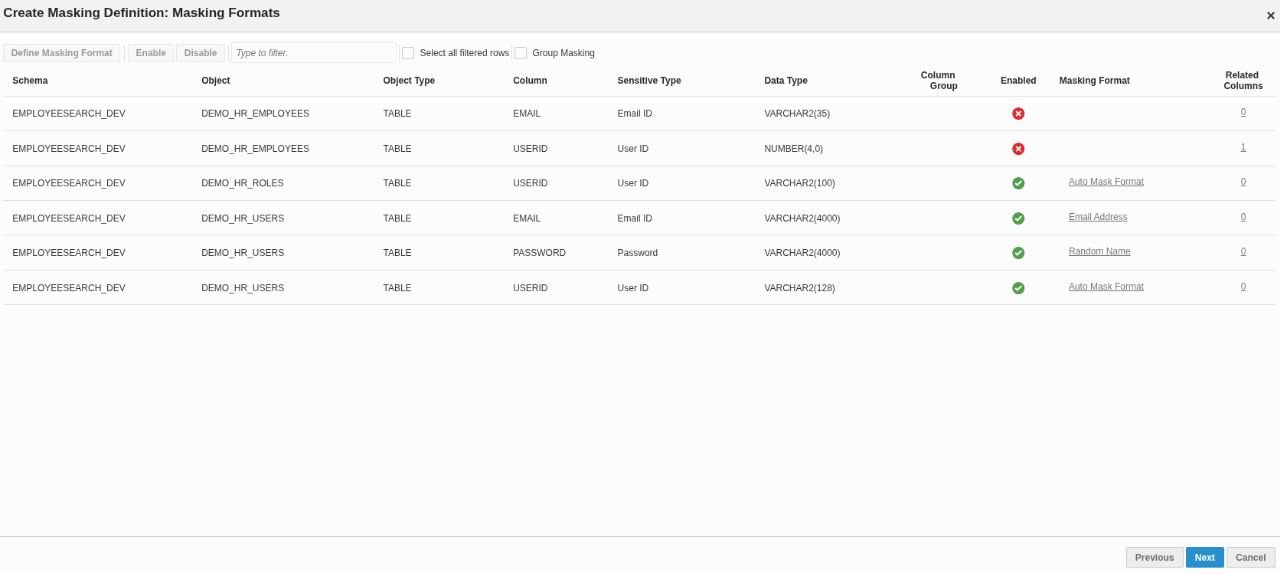
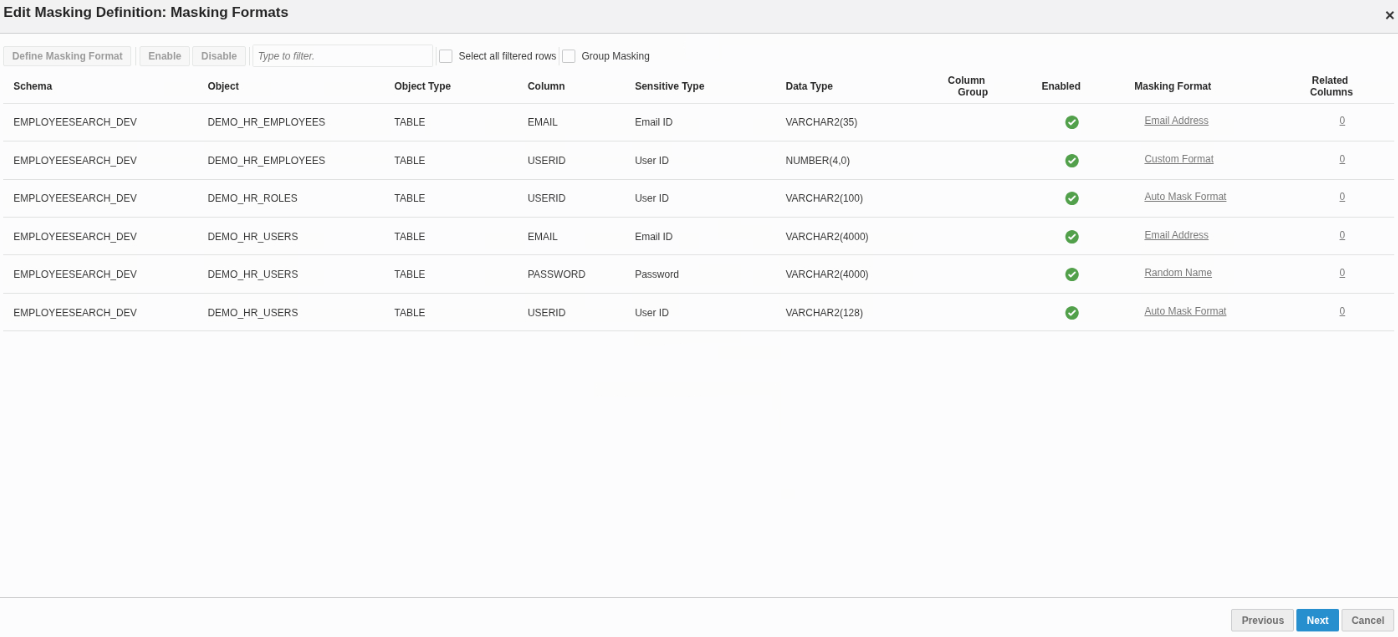
DMS RU06 changes

diff --git a/database/advanced/data-masking-subsetting/data-masking-subsetting.md b/database/advanced/data-masking-subsetting/data-masking-subsetting.md
@@ -120,13 +120,16 @@ Run the **Discover Sensitive Columns** job: To identify sensitive columns, run t
 
     ![DMS](./images/dms-013.png "13")
 
-3. Now, click **Schedule** shown under **Sensitive Column Discovery Jobs** page:
+3. Now, click **Full discovery** shown under **Sensitive Column Discovery Jobs** page:
     
-    ![DMS](./images/dms-014.png "14")
+    ![DMS](./images/dms-014(1).png "14")
 
     Please note the two sections in the image above: **Sensitive Column Discovery Jobs** and **Discovered Columns**.
     - **Sensitive Column Discovery Jobs:** Shows a list of discovery jobs.
     - **Discovered Columns:** When you highlight any discovery job, this section will display a list of discovered columns for that job.  
+
+    **Note**:  
+    - Incremental discovery can be performed to discover new columns since the last full discovery run. You can expand the scope of incremental discovery to additional schemas in the target database.  
 
 4. Fill in the following details on the **Create Sensitive Column Discovery Job** page:
 
@@ -140,16 +143,16 @@ Run the **Discover Sensitive Columns** job: To identify sensitive columns, run t
     - Sensitive types are organized into 8 different categories for easier navigation - Academic, Biographic, Employment, Financial, Healthcare, Identification, Information Technology, and User Defined.
      
 
-5. Click **Submit**. Check the discovery job status by pressing the **Refresh** button and move forward when status shows **Succeeded**! Highlight the succeeded Discovery Job and notice ten sensitive columns discovered and shown under the **Discovered Columns** section. 
+5. Click **Submit**. Check the discovery job status by pressing the **Refresh** button and move forward when status shows **Succeeded**! Highlight the succeeded Discovery Job and notice eleven sensitive columns discovered and shown under the **Discovered Columns** section. 
 
-    ![DMS](./images/dms-112(3).png "16")
+    ![DMS](./images/dms-112(5).png "16")
 
 6. **Sensitive Status** for discovered columns is **Sensitive** by default. Here, you have the flexibility to update the status to *`Not Sensitive`* or *`Undefined`*, depending on your requirement. 
-For this task, select the three *`User ID`* sensitive type columns shown below and selct **Mark Not Sensitive**.
+For this task, select the four *`User ID`* and one *`Email ID`* sensitive type columns shown below and selct **Mark Not Sensitive**.
 
-![DMS](./images/dms-113(4).png "17")
+![DMS](./images/dms-113(5).png "17")
 
-Notice that the **Sensitive Status** has been changed from *`SENSITIVE`* to *`NOT_SENSITIVE`* for three rows.  
+Notice that the **Sensitive Status** has been changed from *`SENSITIVE`* to *`NOT_SENSITIVE`* for five rows.  
 
 7. Click **Close**. Now, your ADM is populated with sensitive columns *`EMAIL`*, *`USERID`* and *`PASSWORD`* from different objects.
 
@@ -184,9 +187,8 @@ Create a new Masking Definition under **Data Masking** where the masking formats
 - Associated Database: *`cdb1_PDB1.`*
 - Database Named Credentials: *`DMS_ADMIN.`*
 
-    ![DMS](./images/dms-022.png "22")  
-    
-    
+![DMS](./images/dms-022.png "22")  
+
 4. Click **Next**.  
 
 5. On the next screen, notice the discovered sensitive columns along with assigned masking formats.
@@ -196,55 +198,19 @@ Create a new Masking Definition under **Data Masking** where the masking formats
 
     ![DMS](./images/dms-114(4).png "23")  
     
-    Now, let’s define the masking formats for the remaining two columns that do not yet have assigned formats.
-
-6. Select the **EMAIL** column in *`DEMO_HR_EMPLOYEES`*, then click the **Define Masking Format** option at the top.
-
-    ![DMS](./images/dms-115(4).png "24")
-
-7. On the **Define Masking Format** page, select **Email Address** from the **Choose From Masking Formats** drop-down box, and click **Import**.
-
-   ![DMS](./images/dms-115(5).png "24")
-
-8. The Masking Format Entries is automatically populated. View the sample data by clicking **Generate** under **Sample Data**:
-
-    ![DMS](./images/dms-116(4).png "25")
-
-9. Click **Save**. Notice the *`EMAIL`* column now has the defined masking format:
-
-
-Stay on the **Create Masking Definition** page to define the format for the other column- *`USERID`* as shown in the next steps.
-
-10. For **USERID** column:  Select the **USERID** column in *`DEMO_HR_EMPLOYEES`*, then click the **Define Masking Format** option at the top.
-
-    ![DMS](./images/dms-117(5).png "27")
-
-    **Note**: You can define masking formats for multiple columns together with the same data type.
-
- - On the *`Define Masking Format`* page, choose **Custom Format Entry** as **Random Numbers** and enter *`Start Integer`* and *`End Integer`* as *`101`* and *`1999`*.
- - Click **Add Format Entry**.
+    Masking formats for all the columns are automatically assigned. Here, if needed, you can edit the format by clicking **Define Masking Format**.
     
-    ![DMS](./images/dms-118(3).png "028")
+6. Click **Next**.
 
-- click **Save**.  
-
-    ![DMS](./images/dms-118(4).png "028")
-
-11. Notice that all columns for **EMAIL**, **USERID** and **PASSWORD** now have masking formats assigned.
-        
-    ![DMS](./images/dms-121(5).png "31")
-       
-12. Click **Next**.
-
-13. Users have an option to add a pre-masking script and a post-masking script. For this task, however, you can leave it empty.
+7. Users have an option to add a pre-masking script and a post-masking script. For this task, however, you can leave it empty.
 
 **Note**:
     - Use the **Pre Mask Script** text box to specify any SQL script that must run before masking starts.
     - Use the **Post Mask Script** text box to specify any SQL script that must run after masking completes.  
     
-14. Click **Next**.
+8. Click **Next**.
 
-15. Click **Create** on the next page. A new Masking Definition is created.
+9. Click **Create** on the next page. A new Masking Definition is created.
 
     ![DMS](./images/dms-032(2).png "32")
 
@@ -306,8 +272,9 @@ Fill in the below details:
  - Data Masking Option: **In-Database Masking** (we are choosing In-Database for this lab).
  - Associated Database: *`cdb1_PDB1`*.
  - Database Named Credential: *`DMS_ADMIN`*.  
+ - Run **Pre-Masking Check** if it has not been performed previously.
  
-    ![DMS](./images/dms-034.png "34")  
+    ![DMS](./images/dms-034(1).png "34")  
     
     
 3. Click **Generate**.  
@@ -413,8 +380,9 @@ Fill in the following details on the **Schedule Data Masking Job: Basic Details
    - Database Named Credentials: *`DMS_ADMIN`*.
    - Host Named Credentials: *`OS_ORACLE_SSH`*
    - Select the checkbox for **Selected Database is not a production database**.
+   - Run **Pre-Masking Check** if it has not been done previously.
 
-![DMS](./images/dms-044.png "44")  
+![DMS](./images/dms-044(1).png "44")  
 
 7. Click **Next**.
 
@@ -903,7 +871,7 @@ This task ensures a clean environment for future exercises and prevents any pote
 
     - Select each Data Subsetting Definition and click **Delete** at the top.
         
-        ![DMS](./images/dms-095.png "Delet all the Data Subsetting Definition")
+        ![DMS](./images/dms-095.png "Delete all the Data Subsetting Definition")
 
     - Click **Yes** to confirm.
 
